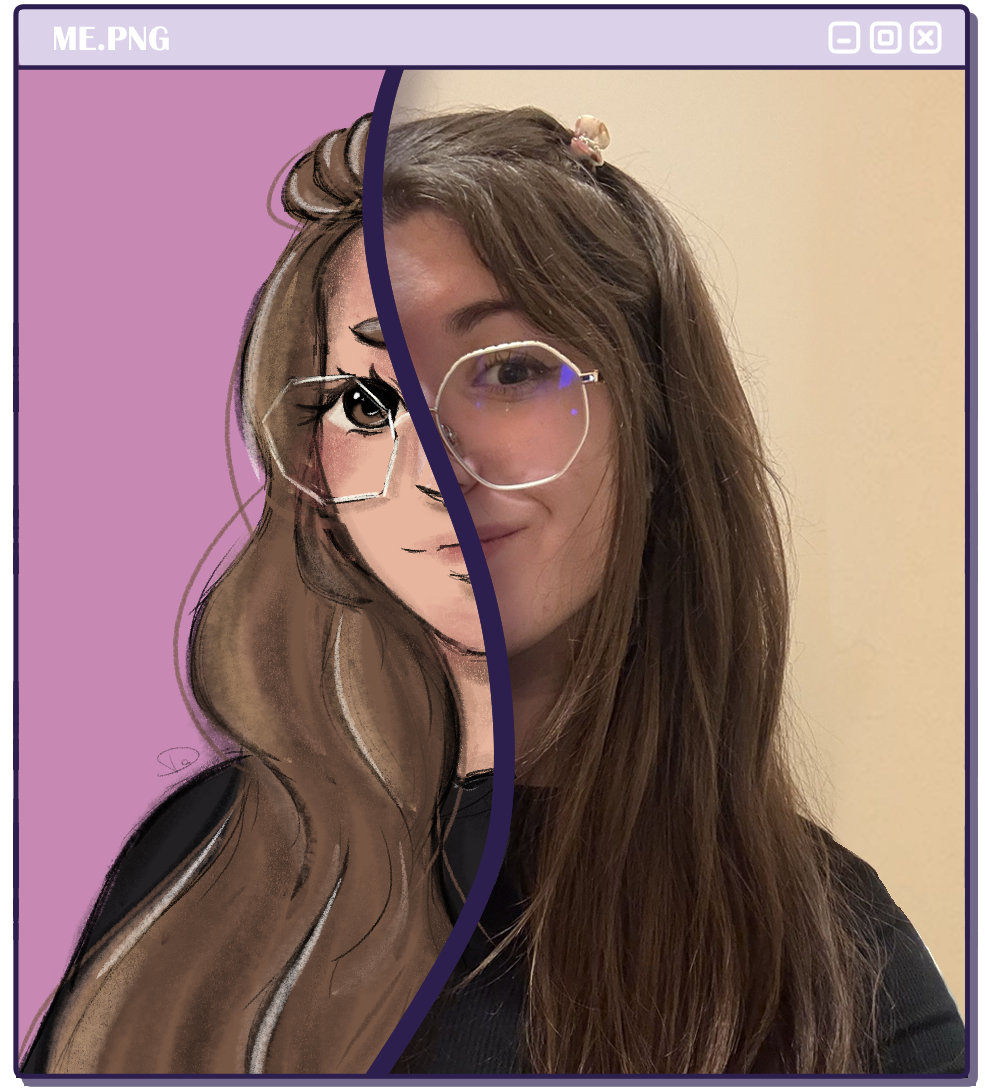
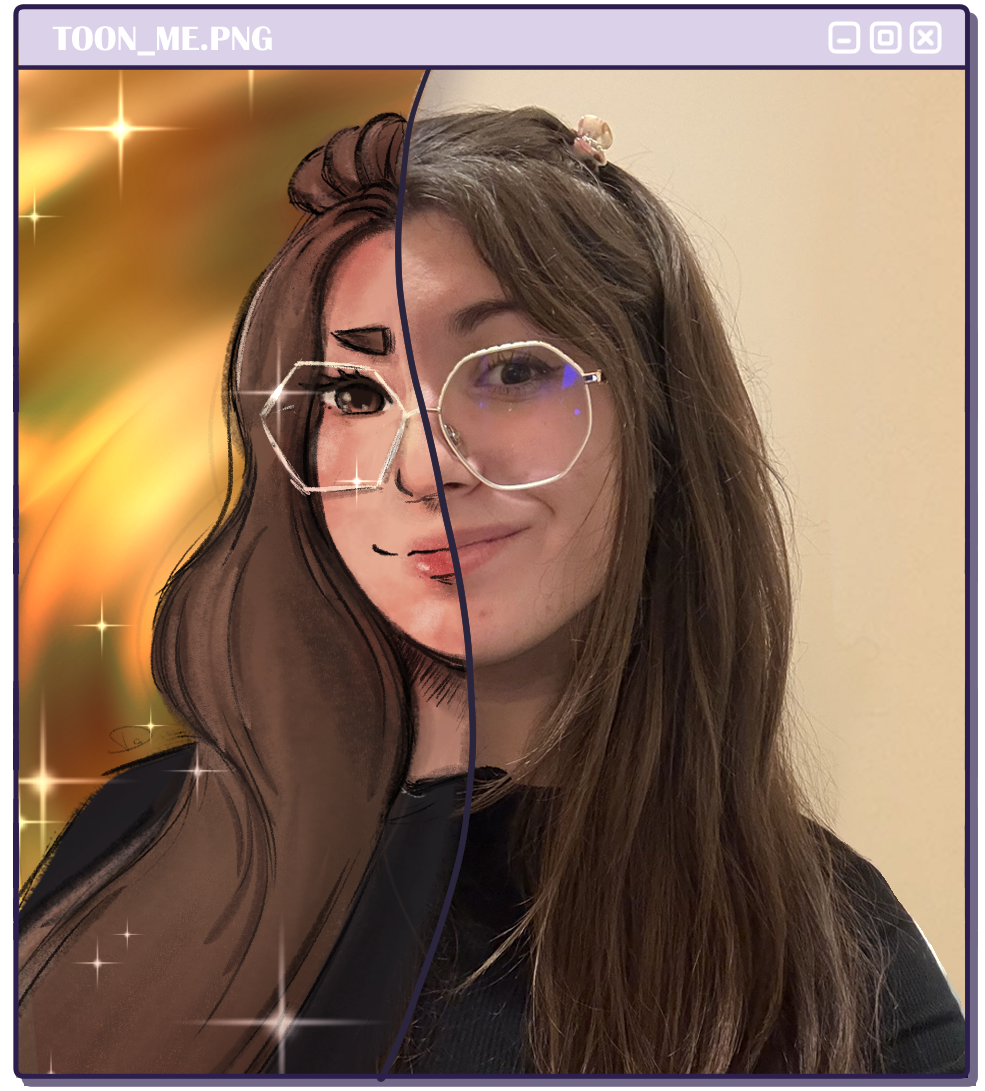
Replaced portait picture and fixed mobile responsiveness of component `ProjectCardRight.vue`.

diff --git a/src/components/templates/ProjectCardRight.vue b/src/components/templates/ProjectCardRight.vue
@@ -1,13 +1,14 @@
 <template>
 <div class="mt-15">
     <h3>{{ title }}</h3>
-    <div class="grid grid-cols-1 lg:grid-cols-2 gap-5 mt-10">
-        <div>
+    <div class="grid grid-cols-1 lg:grid-cols-2 gap-5 lg:mt-10">
+        <div class="order-2 lg:order-1">
             <div class="aspect-[16/11] flex items-center justify-center">
-                <img :src="imageUrl1" :alt="imageAlt1" class="rounded-md" @click="openModal(imageUrl1, imageAlt1)">
+                <img :src="imageUrl1" :alt="imageAlt1" class="rounded-md cursor-pointer" @click="openModal(imageUrl1, imageAlt1)">
             </div>
         </div>
-        <div>
+        <!-- Text Content: Appears 1st on mobile, 2nd on desktop (right side) -->
+        <div class="order-1 lg:order-2">
             <p class="mt-3 lg:mr-10">
                 {{ description }}
             </p>
@@ -23,55 +24,55 @@
             </div>
         </div>
     </div>
+
     <div class="grid grid-cols-1 lg:grid-cols-3 gap-2 mt-5">
         <div>
             <div class="aspect-[16/11] flex items-center justify-center">
-                <img :src="imageUrl2"  :alt="imageAlt2" class="rounded-md" @click="openModal(imageUrl2, imageAlt2)">
+                <img :src="imageUrl2"  :alt="imageAlt2" class="rounded-md cursor-pointer" @click="openModal(imageUrl2, imageAlt2)">
             </div>
         </div>
         <div>
             <div class="aspect-[16/11] flex items-center justify-center">
-                <img :src="imageUrl3"  :alt="imageAlt3" class="rounded-md" @click="openModal(imageUrl3, imageAlt3)">
+                <img :src="imageUrl3"  :alt="imageAlt3" class="rounded-md cursor-pointer" @click="openModal(imageUrl3, imageAlt3)">
             </div>
         </div>
         <div>
             <div class="aspect-[16/11] flex items-center justify-center">
-                <img :src="imageUrl4" :alt="imageAlt4" class="rounded-md" @click="openModal(imageUrl4, imageAlt4)">
+                <img :src="imageUrl4" :alt="imageAlt4" class="rounded-md cursor-pointer" @click="openModal(imageUrl4, imageAlt4)">
             </div>
         </div>
     </div>
 
-    <!-- Lightbox Modal -->
-        <Teleport to="body">
-            <Transition
-                enter-active-class="transition-opacity duration-200 ease-out"
-                enter-from-class="opacity-0"
-                enter-to-class="opacity-100"
-                leave-active-class="transition-opacity duration-150 ease-in"
-                leave-from-class="opacity-100"
-                leave-to-class="opacity-0"
+    <Teleport to="body">
+        <Transition
+            enter-active-class="transition-opacity duration-200 ease-out"
+            enter-from-class="opacity-0"
+            enter-to-class="opacity-100"
+            leave-active-class="transition-opacity duration-150 ease-in"
+            leave-from-class="opacity-100"
+            leave-to-class="opacity-0"
+        >
+            <div
+                v-if="selectedImage"
+                class="fixed inset-0 z-50 flex items-center justify-center bg-black/80 backdrop-blur-sm p-4"
+                @click.self="closeModal"
             >
-                <div
-                    v-if="selectedImage"
-                    class="fixed inset-0 z-50 flex items-center justify-center bg-black/80 backdrop-blur-sm p-4"
-                    @click.self="closeModal"
+                <button
+                    class="absolute top-5 right-5 text-white/80 hover:text-white text-3xl font-light focus:outline-none"
+                    aria-label="Close image popup"
+                    @click="closeModal"
                 >
-                    <button
-                        class="absolute top-5 right-5 text-white/80 hover:text-white text-3xl font-light focus:outline-none"
-                        aria-label="Close image popup"
-                        @click="closeModal"
-                    >
-                        &times;
-                    </button>
+                    &times;
+                </button>
 
-                    <img
-                        :src="selectedImage.url"
-                        :alt="selectedImage.alt"
-                        class="max-w-full max-h-[90vh] object-contain rounded-md"
-                    >
-                </div>
-            </Transition>
-        </Teleport>
+                <img
+                    :src="selectedImage.url"
+                    :alt="selectedImage.alt"
+                    class="max-w-full max-h-[90vh] object-contain rounded-md"
+                >
+            </div>
+        </Transition>
+    </Teleport>
 </div>
 </template>
 

diff --git a/src/style.css b/src/style.css
@@ -21,7 +21,7 @@ h3 {
 }
 
 p {
-    @apply text-lg/10 text-justify xl:text-left;
+    @apply text-lg/10;
 }
 
 a {
